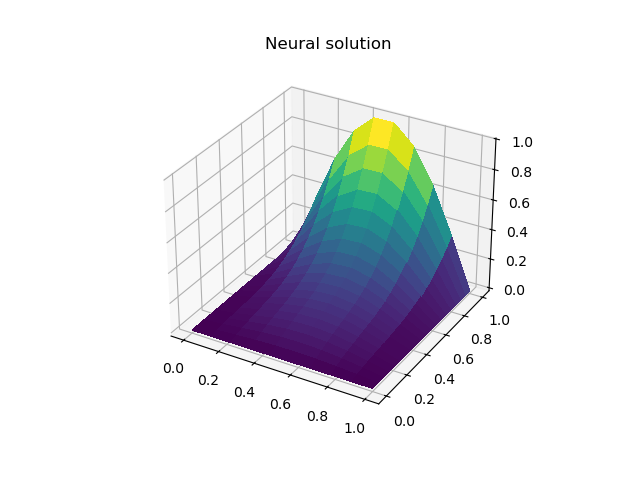
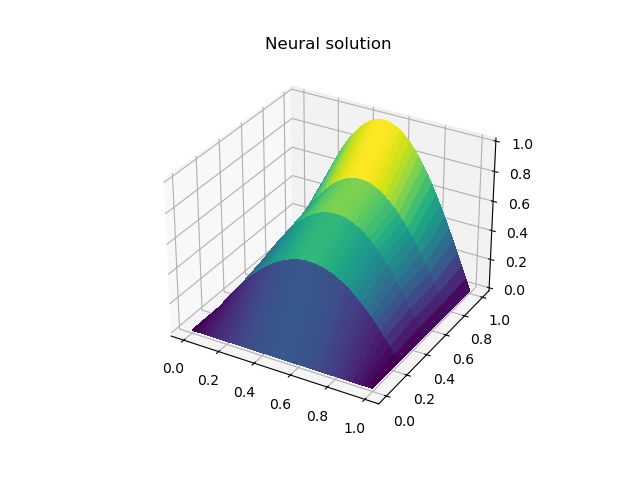
40x5 plots

diff --git a/main.py b/main.py
@@ -134,8 +134,8 @@ def A(x):
 def psy_trial(x, net_out):
     return A(x) + x[0] * (1 - x[0]) * x[1] * (1 - x[1]) * net_out
 
-nx = 10
-ny = 20
+nx = 40
+ny = 5
 pde = PDEnet(nx)
 dx = 1. / nx
 dy = 1. / ny
